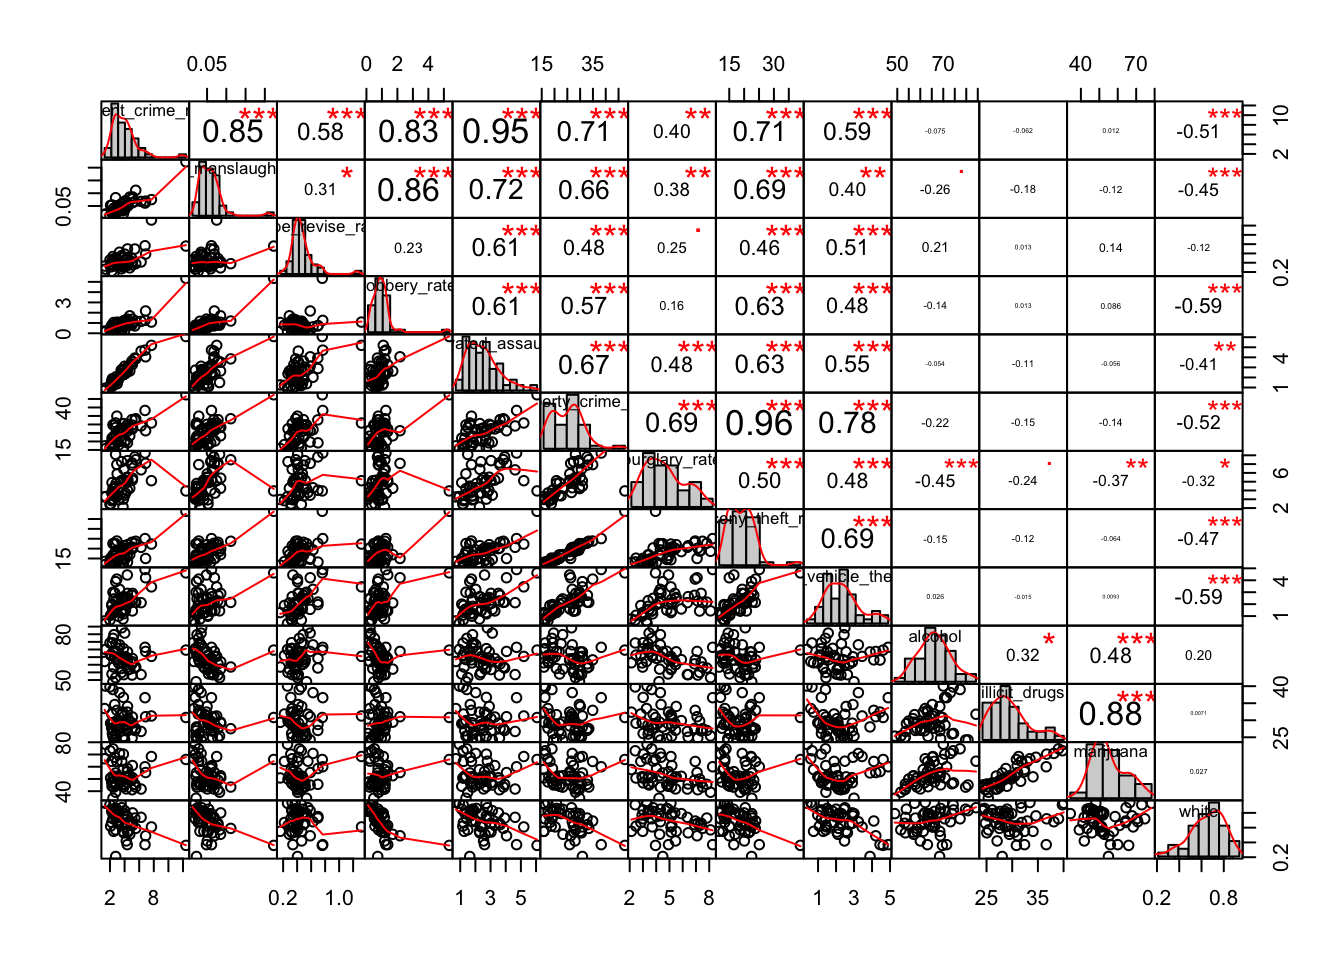
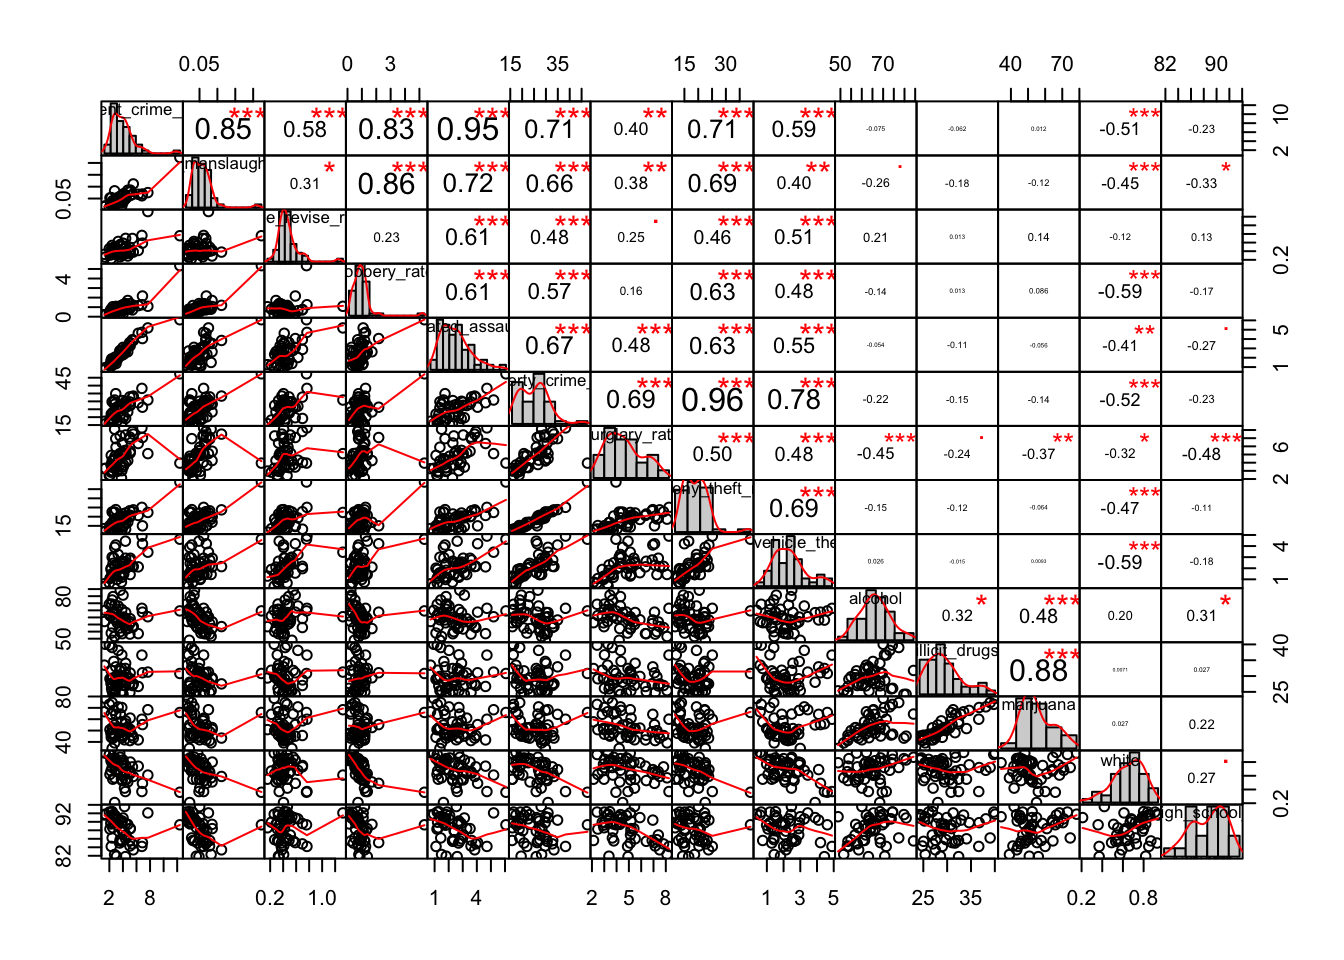
Check regression

diff --git a/about.html b/about.html
@@ -230,12 +230,12 @@ $(document).ready(function () {
 <div id="load-crime-and-drug-data-and-do-some-clean-up" class="section level4">
 <h4>load crime and drug data and do some clean up!</h4>
 <pre class="r"><code>library(tidyverse)</code></pre>
-<pre><code>## ── Attaching packages ───────────────────────────────────────────────── tidyverse 1.2.1 ──</code></pre>
+<pre><code>## ── Attaching packages ─────────────────────────────────────────── tidyverse 1.2.1 ──</code></pre>
 <pre><code>## ✔ ggplot2 3.0.0     ✔ purrr   0.2.5
 ## ✔ tibble  1.4.2     ✔ dplyr   0.7.6
 ## ✔ tidyr   0.8.1     ✔ stringr 1.3.1
 ## ✔ readr   1.1.1     ✔ forcats 0.3.0</code></pre>
-<pre><code>## ── Conflicts ──────────────────────────────────────────────────── tidyverse_conflicts() ──
+<pre><code>## ── Conflicts ────────────────────────────────────────────── tidyverse_conflicts() ──
 ## ✖ dplyr::filter() masks stats::filter()
 ## ✖ dplyr::lag()    masks stats::lag()</code></pre>
 <pre class="r"><code>library(readxl)
@@ -770,151 +770,12 @@ regression_data_raw = left_join(crime_mean_rate, drug_mean_rate) %&gt;%
 ## character vector</code></pre>
 <pre class="r"><code>regression_data_raw = left_join(regression_data_raw, race_data_raw)</code></pre>
 <pre><code>## Joining, by = &quot;state&quot;</code></pre>
-</div>
-<div id="linear-regression" class="section level4">
-<h4>Linear Regression</h4>
-<p>Check the distribution for variables.</p>
-<pre class="r"><code># Check distributions 
-regression_data_raw %&gt;%
-  select(-state) %&gt;%
-  chart.Correlation()</code></pre>
-<p><img src="about_files/figure-html/distribution%20checking-1.png" width="672" /></p>
-<p>Make models for MLR of crime types and drug uses.</p>
-<pre class="r"><code># Make linear models for each crime type in each state
-regression_model = 
-  regression_data_raw %&gt;%
-  gather(key = crime_type, value = crime_rate, violent_crime_rate:motor_vehicle_theft_rate) %&gt;%
-  group_by(crime_type) %&gt;%
-  nest() %&gt;%
-  mutate(
-    linear_model = map(data, ~lm(crime_rate ~ illicit_drugs + alcohol + marijuana + white, data = .x)),
-    linear_model = map(linear_model, broom::tidy)) %&gt;%
-  select(-data) %&gt;%
-  unnest()
-
-# Filter the model that has p-value is less than 0.1
-regression_model %&gt;% 
-  filter(p.value &lt; 0.05,
-         term != &quot;(Intercept)&quot;)</code></pre>
-<pre><code>## # A tibble: 8 x 6
-##   crime_type               term  estimate std.error statistic    p.value
-##   &lt;chr&gt;                    &lt;chr&gt;    &lt;dbl&gt;     &lt;dbl&gt;     &lt;dbl&gt;      &lt;dbl&gt;
-## 1 violent_crime_rate       white  -5.82      1.43       -4.06 0.000190  
-## 2 murder_manslaughter_rate white  -0.0834    0.0258     -3.24 0.00224   
-## 3 robbery_rate             white  -2.62      0.543      -4.83 0.0000156 
-## 4 aggravated_assault_rate  white  -2.93      0.961      -3.05 0.00379   
-## 5 property_crime_rate      white -20.0       5.08       -3.94 0.000275  
-## 6 burglary_rate            white  -2.55      1.26       -2.03 0.0485    
-## 7 larceny_theft_rate       white -13.4       3.80       -3.52 0.000989  
-## 8 motor_vehicle_theft_rate white  -4.07      0.776      -5.25 0.00000384</code></pre>
-<ul>
-<li>Put “population” into the model</li>
-</ul>
-<p>Set the significant level at 0.5</p>
-<pre class="r"><code># Clean up the population data to get the average in each state
-population_data = population_data %&gt;% 
-  group_by(state, age) %&gt;% 
-  summarize(mean_pop = mean(popul_in_thousands)) %&gt;% 
-  group_by(state) %&gt;% 
-  summarize(total_pop_thousands = sum(mean_pop))
-
-new_reg_data = left_join(regression_data_raw, population_data)</code></pre>
-<pre><code>## Joining, by = &quot;state&quot;</code></pre>
-<pre class="r"><code># Construct new regression models
-new_reg_data %&gt;%
-  gather(key = crime_type, value = crime_rate, violent_crime_rate:motor_vehicle_theft_rate) %&gt;%
-  mutate(crime_type = str_replace(crime_type, &quot;_rate&quot;, &quot;&quot;)) %&gt;% 
-  group_by(crime_type) %&gt;%
-  nest() %&gt;%
-  mutate(
-    linear_model = map(data, ~lm(crime_rate ~ illicit_drugs + alcohol + marijuana + white + total_pop_thousands, data = .x)),
-    linear_model = map(linear_model, broom::tidy)) %&gt;%
-  select(-data) %&gt;%
-  unnest() %&gt;% 
-  filter(p.value &lt; 0.05,
-         term != &quot;(Intercept)&quot;)</code></pre>
-<pre><code>## # A tibble: 12 x 6
-##    crime_type       term           estimate   std.error statistic  p.value
-##    &lt;chr&gt;            &lt;chr&gt;             &lt;dbl&gt;       &lt;dbl&gt;     &lt;dbl&gt;    &lt;dbl&gt;
-##  1 violent_crime    white          -6.66e+0     1.52e+0     -4.38  7.05e-5
-##  2 murder_manslaug… white          -1.00e-1     2.72e-2     -3.68  6.15e-4
-##  3 robbery          white          -2.77e+0     5.88e-1     -4.71  2.42e-5
-##  4 aggravated_assa… white          -3.50e+0     1.02e+0     -3.44  1.26e-3
-##  5 property_crime   white          -2.54e+1     5.06e+0     -5.02  8.52e-6
-##  6 property_crime   total_pop_tho… -4.57e-7     1.56e-7     -2.92  5.50e-3
-##  7 burglary         alcohol        -6.74e-2     3.03e-2     -2.23  3.10e-2
-##  8 burglary         white          -3.70e+0     1.29e+0     -2.88  6.04e-3
-##  9 burglary         total_pop_tho… -9.71e-8     3.97e-8     -2.44  1.85e-2
-## 10 larceny_theft    white          -1.73e+1     3.82e+0     -4.53  4.37e-5
-## 11 larceny_theft    total_pop_tho… -3.29e-7     1.18e-7     -2.78  7.83e-3
-## 12 motor_vehicle_t… white          -4.43e+0     8.30e-1     -5.34  2.93e-6</code></pre>
-<p>From the result, we could see that only burglary contains estimated coefficient of drug use variable with low p-value. So we pick this type of crime as our final outcome.</p>
-<p>Check the diagnostics of the model.</p>
-<pre class="r"><code># Fit models and then check the assumption
-burglary_model = lm(burglary_rate ~ illicit_drugs + alcohol + marijuana + total_pop_thousands + white, data = new_reg_data)
-summary(burglary_model)</code></pre>
-<pre><code>## 
-## Call:
-## lm(formula = burglary_rate ~ illicit_drugs + alcohol + marijuana + 
-##     total_pop_thousands + white, data = new_reg_data)
-## 
-## Residuals:
-##      Min       1Q   Median       3Q      Max 
-## -2.70353 -0.87936  0.08632  0.86877  2.61546 
-## 
-## Coefficients:
-##                       Estimate Std. Error t value Pr(&gt;|t|)    
-## (Intercept)          1.271e+01  2.339e+00   5.433 2.15e-06 ***
-## illicit_drugs        1.416e-01  1.048e-01   1.352  0.18324    
-## alcohol             -6.744e-02  3.028e-02  -2.227  0.03096 *  
-## marijuana           -8.851e-02  4.518e-02  -1.959  0.05632 .  
-## total_pop_thousands -9.715e-08  3.975e-08  -2.444  0.01851 *  
-## white               -3.704e+00  1.285e+00  -2.882  0.00604 ** 
-## ---
-## Signif. codes:  0 &#39;***&#39; 0.001 &#39;**&#39; 0.01 &#39;*&#39; 0.05 &#39;.&#39; 0.1 &#39; &#39; 1
-## 
-## Residual standard error: 1.357 on 45 degrees of freedom
-## Multiple R-squared:  0.3849, Adjusted R-squared:  0.3166 
-## F-statistic: 5.632 on 5 and 45 DF,  p-value: 0.0004094</code></pre>
-<p>From the diagnostics, these three models all meet the model assumptions. From the result we could see that, both murder/manslaughter and burglary rate are inversely related to alcohol use while robbery rate is positively related to marijuana use. Thus, now we look into simple linear models for each association</p>
-<p>From the results of regression model that includes “total_population” as variable, we can see that at the significant level of 0.1, both murder/manslaughter and burglary rates are inversely related to alcohol use while robbery rate is positively associated to marijuana use. So we would look into the model assumptions</p>
-<pre class="r"><code># Make models and see the diagnostic graphs
-SLR_murder_alcohol = lm(murder_manslaughter_rate ~ alcohol, data = new_reg_data)
-plot(SLR_murder_alcohol)</code></pre>
-<p><img src="about_files/figure-html/model%20assumptions%20check%20for%20SLR%20models-1.png" width="672" /><img src="about_files/figure-html/model%20assumptions%20check%20for%20SLR%20models-2.png" width="672" /><img src="about_files/figure-html/model%20assumptions%20check%20for%20SLR%20models-3.png" width="672" /><img src="about_files/figure-html/model%20assumptions%20check%20for%20SLR%20models-4.png" width="672" /></p>
-<pre class="r"><code>SLR_burglary_alcohol = lm(burglary_rate ~ alcohol, data = new_reg_data)
-plot(SLR_burglary_alcohol)</code></pre>
-<p><img src="about_files/figure-html/model%20assumptions%20check%20for%20SLR%20models-5.png" width="672" /><img src="about_files/figure-html/model%20assumptions%20check%20for%20SLR%20models-6.png" width="672" /><img src="about_files/figure-html/model%20assumptions%20check%20for%20SLR%20models-7.png" width="672" /><img src="about_files/figure-html/model%20assumptions%20check%20for%20SLR%20models-8.png" width="672" /></p>
-<p>From the diagnostics, the simple linear model of murder rate and alcohol use has a relatively better residual distribution, and there is no heavy tails in the QQ plot. However, the redisuals vs fitted plot of the model of burglary rate and alcohol, has a skewed line. Therefore, it may not meet the assumption.</p>
-<ul>
-<li>Try bootstrap of the model of burglary rate</li>
-</ul>
-<pre class="r"><code>new_reg_data %&gt;%
-  gather(key = crime_type, value = crime_rate, violent_crime_rate:motor_vehicle_theft_rate) %&gt;%
-  filter(crime_type == &quot;burglary_rate&quot;) %&gt;% 
-  modelr::bootstrap(n = 100) %&gt;% 
-  mutate(
-    linear_model = map(strap, ~lm(crime_rate ~ illicit_drugs + alcohol + marijuana + total_pop_thousands, data = .x)),
-    results = map(linear_model, broom::tidy)) %&gt;% 
-  select(results) %&gt;%
-  unnest()</code></pre>
-<pre><code>## # A tibble: 500 x 5
-##    term                estimate    std.error statistic    p.value
-##    &lt;chr&gt;                  &lt;dbl&gt;        &lt;dbl&gt;     &lt;dbl&gt;      &lt;dbl&gt;
-##  1 (Intercept)          7.42e+0 2.51            2.95   0.00497   
-##  2 illicit_drugs        1.30e-1 0.120           1.09   0.283     
-##  3 alcohol             -6.06e-2 0.0336         -1.80   0.0781    
-##  4 marijuana           -4.83e-2 0.0477         -1.01   0.316     
-##  5 total_pop_thousands -2.32e-9 0.0000000257   -0.0900 0.929     
-##  6 (Intercept)          1.06e+1 1.92            5.55   0.00000136
-##  7 illicit_drugs        2.29e-1 0.0976          2.35   0.0232    
-##  8 alcohol             -8.14e-2 0.0283         -2.88   0.00608   
-##  9 marijuana           -1.27e-1 0.0439         -2.90   0.00577   
-## 10 total_pop_thousands -4.99e-8 0.0000000367   -1.36   0.181     
-## # ... with 490 more rows</code></pre>
-<pre class="r"><code>url = &quot;https://en.wikipedia.org/wiki/List_of_U.S._states_by_educational_attainment&quot;
+<p>Consider education as a new variable.</p>
+<pre class="r"><code># Import dataset that contains education information
+url = &quot;https://en.wikipedia.org/wiki/List_of_U.S._states_by_educational_attainment&quot;
 education = read_html(url)
 
+# tidy and clean
 education_data = education %&gt;% 
   html_nodes(css = &quot;table&quot;) %&gt;%
   .[[1]] %&gt;% 
@@ -923,13 +784,22 @@ education_data = education %&gt;%
   select(state, percent_high_school_graduate) %&gt;% 
   filter(state != &quot;United States&quot;) %&gt;% 
   mutate(percent_high_school_graduate = str_replace(percent_high_school_graduate, &quot;%&quot;, &quot;&quot;)) %&gt;% 
-  mutate(percent_high_school_graduate = as.numeric(percent_high_school_graduate))</code></pre>
-<ul>
-<li>Explore model with education data</li>
-</ul>
-<pre class="r"><code>regression_data_all = left_join(regression_data_raw, education_data)</code></pre>
+  mutate(percent_high_school_graduate = as.numeric(percent_high_school_graduate))
+
+regression_data_all = left_join(regression_data_raw, education_data)</code></pre>
 <pre><code>## Joining, by = &quot;state&quot;</code></pre>
-<pre class="r"><code>regression_data_all %&gt;%
+</div>
+<div id="linear-regression" class="section level4">
+<h4>Linear Regression</h4>
+<p>Check the distribution for variables.</p>
+<pre class="r"><code># Check distributions 
+regression_data_all %&gt;%
+  select(-state) %&gt;%
+  chart.Correlation()</code></pre>
+<p><img src="about_files/figure-html/distribution%20checking-1.png" width="672" /></p>
+<p>Make models for MLR of crime types and drug uses, as well as race and education.</p>
+<pre class="r"><code># MLR linear regression using list columns
+regression_data_all %&gt;%
   gather(key = crime_type, value = crime_rate, violent_crime_rate:motor_vehicle_theft_rate) %&gt;%
   group_by(crime_type) %&gt;%
   nest() %&gt;%
@@ -955,6 +825,117 @@ education_data = education %&gt;%
 ## 10 burglary_rate     percent_high_sc… -1.72e-1   0.0728      -2.36 2.28e-2
 ## 11 larceny_theft_ra… white            -1.35e+1   4.00        -3.37 1.57e-3
 ## 12 motor_vehicle_th… white            -3.97e+0   0.816       -4.87 1.48e-5</code></pre>
+<p>From the result we could see that, both murder/manslaughter and robbery rate are positively related to marijuana use. In addition, murder/manslaughter rate is also related to illicit drugs. So, we would look into murder/manslaughter and robbery MLR models.</p>
+<p>Check the diagnostics of the model.</p>
+<pre class="r"><code># Fit models and then check the assumption
+model1 = lm(murder_manslaughter_rate ~ illicit_drugs + alcohol + marijuana + white + percent_high_school_graduate, data = regression_data_all)
+summary(model1)</code></pre>
+<pre><code>## 
+## Call:
+## lm(formula = murder_manslaughter_rate ~ illicit_drugs + alcohol + 
+##     marijuana + white + percent_high_school_graduate, data = regression_data_all)
+## 
+## Residuals:
+##       Min        1Q    Median        3Q       Max 
+## -0.063197 -0.012816  0.000301  0.008312  0.135414 
+## 
+## Coefficients:
+##                                Estimate Std. Error t value Pr(&gt;|t|)    
+## (Intercept)                   0.4841977  0.1365470   3.546 0.000942 ***
+## illicit_drugs                -0.0055100  0.0022983  -2.397 0.020821 *  
+## alcohol                      -0.0007538  0.0006346  -1.188 0.241284    
+## marijuana                     0.0021129  0.0010007   2.111 0.040455 *  
+## white                        -0.0710033  0.0258855  -2.743 0.008774 ** 
+## percent_high_school_graduate -0.0032263  0.0015039  -2.145 0.037488 *  
+## ---
+## Signif. codes:  0 &#39;***&#39; 0.001 &#39;**&#39; 0.01 &#39;*&#39; 0.05 &#39;.&#39; 0.1 &#39; &#39; 1
+## 
+## Residual standard error: 0.02838 on 44 degrees of freedom
+##   (1 observation deleted due to missingness)
+## Multiple R-squared:  0.3497, Adjusted R-squared:  0.2759 
+## F-statistic: 4.733 on 5 and 44 DF,  p-value: 0.001516</code></pre>
+<pre class="r"><code>par(mfrow = c(2,2))
+plot(model1)</code></pre>
+<p><img src="about_files/figure-html/model%20diagnostics-1.png" width="672" /></p>
+<pre class="r"><code>model2 = lm(robbery_rate ~ illicit_drugs + alcohol + marijuana + white + percent_high_school_graduate, data = regression_data_all)
+summary(model2)</code></pre>
+<pre><code>## 
+## Call:
+## lm(formula = robbery_rate ~ illicit_drugs + alcohol + marijuana + 
+##     white + percent_high_school_graduate, data = regression_data_all)
+## 
+## Residuals:
+##     Min      1Q  Median      3Q     Max 
+## -1.4744 -0.2825 -0.1218  0.1976  3.2298 
+## 
+## Coefficients:
+##                              Estimate Std. Error t value Pr(&gt;|t|)    
+## (Intercept)                   6.04746    2.98797   2.024   0.0491 *  
+## illicit_drugs                -0.08987    0.05029  -1.787   0.0808 .  
+## alcohol                      -0.01162    0.01389  -0.837   0.4070    
+## marijuana                     0.04661    0.02190   2.129   0.0389 *  
+## white                        -2.54191    0.56644  -4.488 5.13e-05 ***
+## percent_high_school_graduate -0.02809    0.03291  -0.854   0.3979    
+## ---
+## Signif. codes:  0 &#39;***&#39; 0.001 &#39;**&#39; 0.01 &#39;*&#39; 0.05 &#39;.&#39; 0.1 &#39; &#39; 1
+## 
+## Residual standard error: 0.6211 on 44 degrees of freedom
+##   (1 observation deleted due to missingness)
+## Multiple R-squared:  0.4104, Adjusted R-squared:  0.3434 
+## F-statistic: 6.124 on 5 and 44 DF,  p-value: 0.0002181</code></pre>
+<pre class="r"><code>par(mfrow = c(2,2))
+plot(model2)</code></pre>
+<p><img src="about_files/figure-html/model%20diagnostics-2.png" width="672" /></p>
+<p>From the diagnostics, these two models meet the model assumptions.</p>
+<ul>
+<li>Try bootstrap of the model of burglary rate</li>
+</ul>
+<pre class="r"><code>regression_data_all %&gt;%
+  gather(key = crime_type, value = crime_rate, violent_crime_rate:motor_vehicle_theft_rate) %&gt;%
+  filter(crime_type == &quot;murder_manslaughter_rate&quot;) %&gt;% 
+  modelr::bootstrap(n = 100) %&gt;% 
+  mutate(
+    linear_model = map(strap, ~lm(crime_rate ~ illicit_drugs + alcohol + marijuana + percent_high_school_graduate, data = .x)),
+    results = map(linear_model, broom::tidy)) %&gt;% 
+  select(results) %&gt;%
+  unnest()</code></pre>
+<pre><code>## # A tibble: 500 x 5
+##    term                          estimate std.error statistic   p.value
+##    &lt;chr&gt;                            &lt;dbl&gt;     &lt;dbl&gt;     &lt;dbl&gt;     &lt;dbl&gt;
+##  1 (Intercept)                   0.478     0.130        3.68  0.000617 
+##  2 illicit_drugs                -0.00633   0.00249     -2.54  0.0146   
+##  3 alcohol                      -0.00127   0.000666    -1.91  0.0620   
+##  4 marijuana                     0.00305   0.00114      2.68  0.0102   
+##  5 percent_high_school_graduate -0.00365   0.00145     -2.51  0.0156   
+##  6 (Intercept)                   0.727     0.158        4.60  0.0000340
+##  7 illicit_drugs                -0.00669   0.00282     -2.38  0.0218   
+##  8 alcohol                      -0.000654  0.000786    -0.832 0.410    
+##  9 marijuana                     0.00237   0.00116      2.05  0.0466   
+## 10 percent_high_school_graduate -0.00633   0.00176     -3.60  0.000791 
+## # ... with 490 more rows</code></pre>
+<pre class="r"><code>regression_data_all %&gt;%
+  gather(key = crime_type, value = crime_rate, violent_crime_rate:motor_vehicle_theft_rate) %&gt;%
+  filter(crime_type == &quot;robbery_rate&quot;) %&gt;% 
+  modelr::bootstrap(n = 100) %&gt;% 
+  mutate(
+    linear_model = map(strap, ~lm(crime_rate ~ illicit_drugs + alcohol + marijuana + percent_high_school_graduate, data = .x)),
+    results = map(linear_model, broom::tidy)) %&gt;% 
+  select(results) %&gt;%
+  unnest()</code></pre>
+<pre><code>## # A tibble: 500 x 5
+##    term                         estimate std.error statistic  p.value
+##    &lt;chr&gt;                           &lt;dbl&gt;     &lt;dbl&gt;     &lt;dbl&gt;    &lt;dbl&gt;
+##  1 (Intercept)                   11.4      4.02        2.83  0.00701 
+##  2 illicit_drugs                 -0.181    0.0624     -2.90  0.00568 
+##  3 alcohol                       -0.0117   0.0204     -0.574 0.569   
+##  4 marijuana                      0.0950   0.0264      3.59  0.000802
+##  5 percent_high_school_graduate  -0.105    0.0468     -2.25  0.0294  
+##  6 (Intercept)                    5.62     1.70        3.31  0.00188 
+##  7 illicit_drugs                 -0.0273   0.0319     -0.854 0.398   
+##  8 alcohol                       -0.0282   0.00804    -3.50  0.00107 
+##  9 marijuana                      0.0167   0.0144      1.16  0.252   
+## 10 percent_high_school_graduate  -0.0344   0.0198     -1.74  0.0897  
+## # ... with 490 more rows</code></pre>
 </div>
 
 
